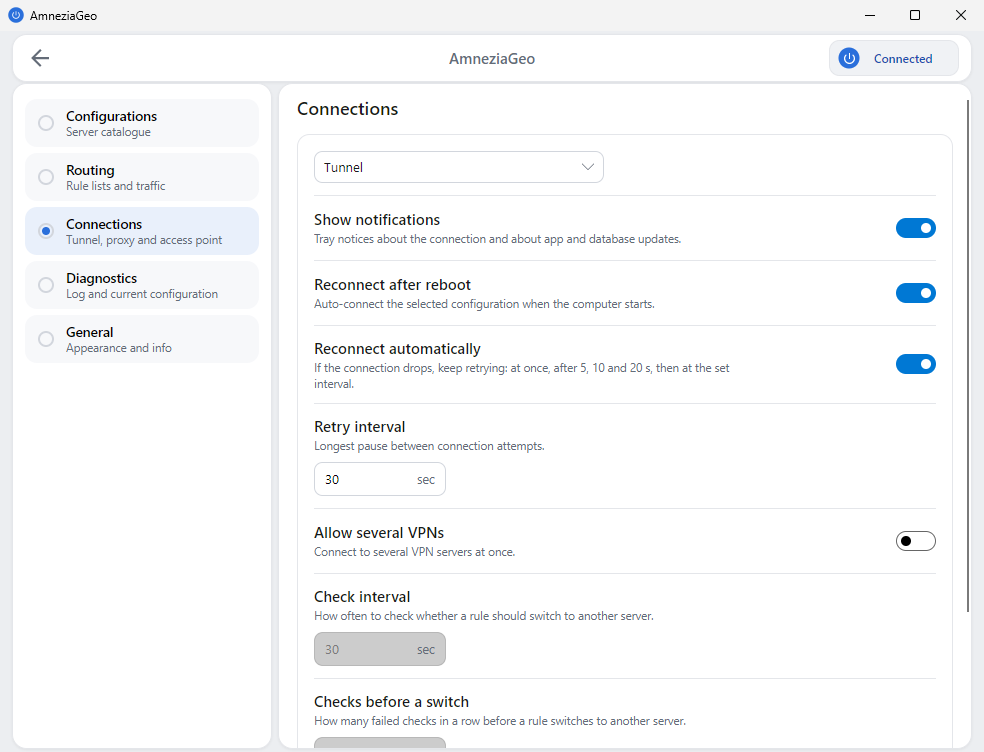
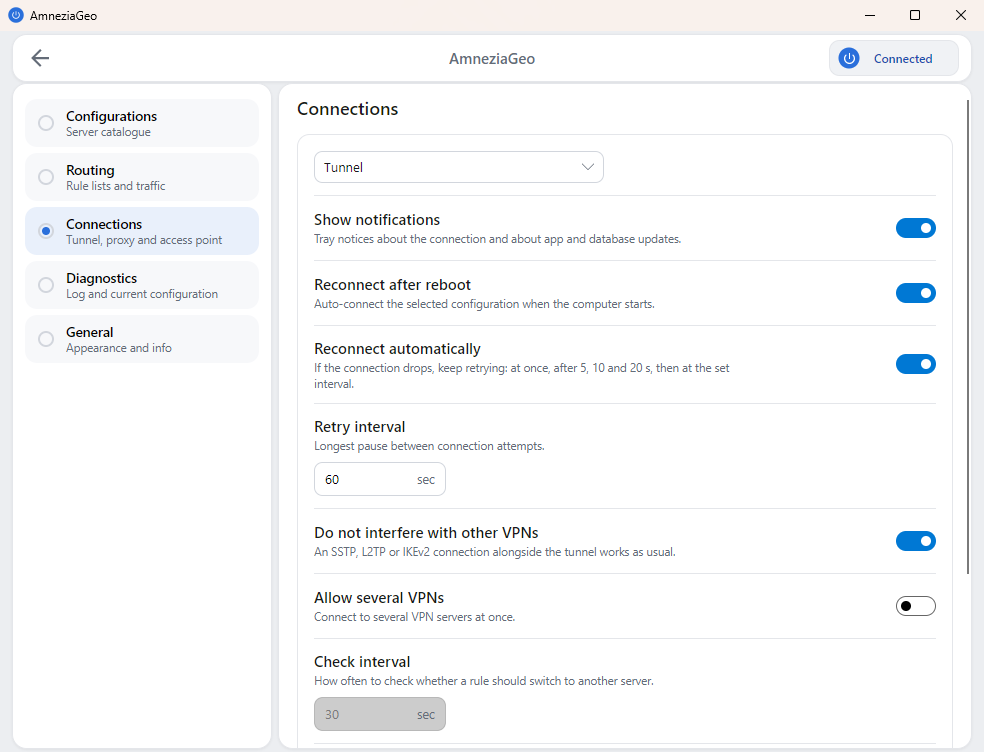
Publish documentation 28fd479

diff --git a/amneziageo_server/docker/panel/dns.ru.html b/amneziageo_server/docker/panel/dns.ru.html
@@ -380,7 +380,7 @@
   </tbody>
 </table>
 
-<p>AmneziaVPN берёт строку <code class="language-plaintext highlighter-rouge">DNS</code>, только если в ней два адреса IPv4. С одним адресом, с адресом IPv6 или без строки, а так пишут «DNS-сервер панели» и «DNS сети», он спрашивает серверы имён из своих настроек, <code class="language-plaintext highlighter-rouge">1.1.1.1</code> и <code class="language-plaintext highlighter-rouge">1.0.0.1</code>, если их не меняли: при полном туннеле через туннель, и тогда вопрос всё равно получает DNS-сервер панели, пока включён перехват запросов клиентов. Его защита от утечек, включённая сама, пускает DNS только к этим серверам.</p>
+<p>AmneziaVPN из ссылки <code class="language-plaintext highlighter-rouge">vpn://</code> берёт адреса IPv4 строки <code class="language-plaintext highlighter-rouge">DNS</code> и спрашивает их, а из файла берёт строку, только если в ней два адреса IPv4. Без адреса IPv4, то есть без строки, как пишет «DNS сети», или с одним IPv6, он спрашивает серверы имён из своих настроек, <code class="language-plaintext highlighter-rouge">1.1.1.1</code> и <code class="language-plaintext highlighter-rouge">1.0.0.1</code>, если их не меняли: при полном туннеле через туннель, и тогда вопрос всё равно получает DNS-сервер панели, пока включён перехват запросов клиентов. Его защита от утечек, включённая сама, пускает DNS только к этим серверам.</p>
 
 <p>Серверная маршрутизация по именам видит только вопросы, которые дошли до DNS-сервера: при «DNS сети» никогда, при «Своих серверах» и «DNS интерфейса» - когда серверы вне туннеля клиента.</p>
 
@@ -454,7 +454,7 @@
 
 <p>Пока DNS-сервер работает на порту 53 и отвечает на адресах интерфейсов, строка <code class="language-plaintext highlighter-rouge">DNS</code> файла клиента, которому он выбран, несёт адрес его интерфейса, и так же в ссылках подписки, см. <a href="#серверы-имён-в-файле">Серверы имён в файле</a>. DNS-сервер отвечает только через туннель, поэтому его адрес идёт и в <code class="language-plaintext highlighter-rouge">AllowedIPs</code> клиента, если диапазоны шаблона или интерфейса его не покрывают. Где панель держит порты интерфейса открытыми в брандмауэре, она пускает клиентов интерфейса и к DNS-серверу: порт DNS-сервера открывается на интерфейсе для UDP и TCP, см. <a href="interfaces.ru.html#порты-в-брандмауэре">Порты в брандмауэре</a>.</p>
 
-<p>Интерфейс, чьи порты панель не держит, остаётся хосту, и брандмауэр хоста может не пускать его клиентов к порту DNS-сервера. Таким клиентам панель не отдаёт свой адрес как сервер имён и не заворачивает их вопросы: сайты у них открываются через их серверы имён, но маршрутизация по сайтам их не касается. Панель читает ufw раз в минуту и называет такие интерфейсы: страница DNS пишет это под полем «Режим» («Маршрутизация не работает у клиентов &lt;интерфейсы&gt;: брандмауэр сервера не пускает их к DNS-серверу панели»), форма шаблона с <a href="templates.ru.html#маршрутизация-по-именам">маршрутизацией по именам</a> тоже, с командами, которые их пускают. На хосте подпункт 13 пункта 23 меню <code class="language-plaintext highlighter-rouge">Let the clients reach the resolver</code> и команда <code class="language-plaintext highlighter-rouge">amneziageo-server dns open</code> дают ufw <code class="language-plaintext highlighter-rouge">allow in on &lt;интерфейс&gt; to any port 53</code> для каждого такого интерфейса с комментарием <code class="language-plaintext highlighter-rouge">amneziageo resolver &lt;интерфейс&gt;</code>; пункт 29 и установка предлагают это сами, когда DNS-сервер отвечает. Из контейнера подпункт печатает команды для хоста. Хост без ufw никого не держит.</p>
+<p>Интерфейс, чьи порты панель не держит, остаётся хосту, и брандмауэр хоста может не пускать его клиентов к порту DNS-сервера. Правило для интерфейса со всей подсетью его клиентов, например <code class="language-plaintext highlighter-rouge">ufw allow in on awg0 from 10.8.0.0/24 to any port 53</code>, их пускает; правило с частью подсети - нет. Таким клиентам панель не отдаёт свой адрес как сервер имён и не заворачивает их вопросы: сайты у них открываются через их серверы имён, но маршрутизация по сайтам их не касается. Панель читает ufw раз в минуту и называет такие интерфейсы: страница DNS пишет это под полем «Режим» («Маршрутизация не работает у клиентов &lt;интерфейсы&gt;: брандмауэр сервера не пускает их к DNS-серверу панели»), форма шаблона с <a href="templates.ru.html#маршрутизация-по-именам">маршрутизацией по именам</a> тоже, с командами, которые их пускают. На хосте подпункт 13 пункта 23 меню <code class="language-plaintext highlighter-rouge">Let the clients reach the resolver</code> и команда <code class="language-plaintext highlighter-rouge">amneziageo-server dns open</code> дают ufw <code class="language-plaintext highlighter-rouge">allow in on &lt;интерфейс&gt; to any port 53</code> для каждого такого интерфейса с комментарием <code class="language-plaintext highlighter-rouge">amneziageo resolver &lt;интерфейс&gt;</code>; пункт 29 и установка предлагают это сами, когда DNS-сервер отвечает. Из контейнера подпункт печатает команды для хоста. Хост без ufw никого не держит.</p>
 
 <p>DNS-сервер спрашивает имена правил и сам, не дожидаясь клиента: каждое имя, по которому сравнивает правило, в том числе имена категории <code class="language-plaintext highlighter-rouge">geosite:</code>, спрашивается, и ответы ложатся в набор правила, так что правило работает с момента сохранения, даже для сервиса, адрес которого клиент уже держит в своём кэше. Имена спрашиваются пачками по шестнадцать, не чаще двух раз в секунду и не больше 256 на правило, и спрашиваются снова, когда прошла половина «TTL записи»; имя без ответа повторяется через две секунды, и ожидание удваивается до минуты. Ключевые слова и выражения категорий не спрашиваются: у них нет имени.</p>
 

diff --git a/amneziageo_server/service/panel/dns.ru.html b/amneziageo_server/service/panel/dns.ru.html
@@ -380,7 +380,7 @@
   </tbody>
 </table>
 
-<p>AmneziaVPN берёт строку <code class="language-plaintext highlighter-rouge">DNS</code>, только если в ней два адреса IPv4. С одним адресом, с адресом IPv6 или без строки, а так пишут «DNS-сервер панели» и «DNS сети», он спрашивает серверы имён из своих настроек, <code class="language-plaintext highlighter-rouge">1.1.1.1</code> и <code class="language-plaintext highlighter-rouge">1.0.0.1</code>, если их не меняли: при полном туннеле через туннель, и тогда вопрос всё равно получает DNS-сервер панели, пока включён перехват запросов клиентов. Его защита от утечек, включённая сама, пускает DNS только к этим серверам.</p>
+<p>AmneziaVPN из ссылки <code class="language-plaintext highlighter-rouge">vpn://</code> берёт адреса IPv4 строки <code class="language-plaintext highlighter-rouge">DNS</code> и спрашивает их, а из файла берёт строку, только если в ней два адреса IPv4. Без адреса IPv4, то есть без строки, как пишет «DNS сети», или с одним IPv6, он спрашивает серверы имён из своих настроек, <code class="language-plaintext highlighter-rouge">1.1.1.1</code> и <code class="language-plaintext highlighter-rouge">1.0.0.1</code>, если их не меняли: при полном туннеле через туннель, и тогда вопрос всё равно получает DNS-сервер панели, пока включён перехват запросов клиентов. Его защита от утечек, включённая сама, пускает DNS только к этим серверам.</p>
 
 <p>Серверная маршрутизация по именам видит только вопросы, которые дошли до DNS-сервера: при «DNS сети» никогда, при «Своих серверах» и «DNS интерфейса» - когда серверы вне туннеля клиента.</p>
 
@@ -454,7 +454,7 @@
 
 <p>Пока DNS-сервер работает на порту 53 и отвечает на адресах интерфейсов, строка <code class="language-plaintext highlighter-rouge">DNS</code> файла клиента, которому он выбран, несёт адрес его интерфейса, и так же в ссылках подписки, см. <a href="#серверы-имён-в-файле">Серверы имён в файле</a>. DNS-сервер отвечает только через туннель, поэтому его адрес идёт и в <code class="language-plaintext highlighter-rouge">AllowedIPs</code> клиента, если диапазоны шаблона или интерфейса его не покрывают. Где панель держит порты интерфейса открытыми в брандмауэре, она пускает клиентов интерфейса и к DNS-серверу: порт DNS-сервера открывается на интерфейсе для UDP и TCP, см. <a href="interfaces.ru.html#порты-в-брандмауэре">Порты в брандмауэре</a>.</p>
 
-<p>Интерфейс, чьи порты панель не держит, остаётся хосту, и брандмауэр хоста может не пускать его клиентов к порту DNS-сервера. Таким клиентам панель не отдаёт свой адрес как сервер имён и не заворачивает их вопросы: сайты у них открываются через их серверы имён, но маршрутизация по сайтам их не касается. Панель читает ufw раз в минуту и называет такие интерфейсы: страница DNS пишет это под полем «Режим» («Маршрутизация не работает у клиентов &lt;интерфейсы&gt;: брандмауэр сервера не пускает их к DNS-серверу панели»), форма шаблона с <a href="templates.ru.html#маршрутизация-по-именам">маршрутизацией по именам</a> тоже, с командами, которые их пускают. На хосте подпункт 13 пункта 23 меню <code class="language-plaintext highlighter-rouge">Let the clients reach the resolver</code> и команда <code class="language-plaintext highlighter-rouge">amneziageo-server dns open</code> дают ufw <code class="language-plaintext highlighter-rouge">allow in on &lt;интерфейс&gt; to any port 53</code> для каждого такого интерфейса с комментарием <code class="language-plaintext highlighter-rouge">amneziageo resolver &lt;интерфейс&gt;</code>; пункт 29 и установка предлагают это сами, когда DNS-сервер отвечает. Хост без ufw никого не держит.</p>
+<p>Интерфейс, чьи порты панель не держит, остаётся хосту, и брандмауэр хоста может не пускать его клиентов к порту DNS-сервера. Правило для интерфейса со всей подсетью его клиентов, например <code class="language-plaintext highlighter-rouge">ufw allow in on awg0 from 10.8.0.0/24 to any port 53</code>, их пускает; правило с частью подсети - нет. Таким клиентам панель не отдаёт свой адрес как сервер имён и не заворачивает их вопросы: сайты у них открываются через их серверы имён, но маршрутизация по сайтам их не касается. Панель читает ufw раз в минуту и называет такие интерфейсы: страница DNS пишет это под полем «Режим» («Маршрутизация не работает у клиентов &lt;интерфейсы&gt;: брандмауэр сервера не пускает их к DNS-серверу панели»), форма шаблона с <a href="templates.ru.html#маршрутизация-по-именам">маршрутизацией по именам</a> тоже, с командами, которые их пускают. На хосте подпункт 13 пункта 23 меню <code class="language-plaintext highlighter-rouge">Let the clients reach the resolver</code> и команда <code class="language-plaintext highlighter-rouge">amneziageo-server dns open</code> дают ufw <code class="language-plaintext highlighter-rouge">allow in on &lt;интерфейс&gt; to any port 53</code> для каждого такого интерфейса с комментарием <code class="language-plaintext highlighter-rouge">amneziageo resolver &lt;интерфейс&gt;</code>; пункт 29 и установка предлагают это сами, когда DNS-сервер отвечает. Хост без ufw никого не держит.</p>
 
 <p>DNS-сервер спрашивает имена правил и сам, не дожидаясь клиента: каждое имя, по которому сравнивает правило, в том числе имена категории <code class="language-plaintext highlighter-rouge">geosite:</code>, спрашивается, и ответы ложатся в набор правила, так что правило работает с момента сохранения, даже для сервиса, адрес которого клиент уже держит в своём кэше. Имена спрашиваются пачками по шестнадцать, не чаще двух раз в секунду и не больше 256 на правило, и спрашиваются снова, когда прошла половина «TTL записи»; имя без ответа повторяется через две секунды, и ожидание удваивается до минуты. Ключевые слова и выражения категорий не спрашиваются: у них нет имени.</p>
 

diff --git a/amneziageo_server/docker/panel/dns.html b/amneziageo_server/docker/panel/dns.html
@@ -389,7 +389,7 @@
   </tbody>
 </table>
 
-<p>AmneziaVPN takes the <code class="language-plaintext highlighter-rouge">DNS</code> line only when it holds two IPv4 addresses. With one address, an IPv6 one or no line, which is what “Panel DNS server” and “Network DNS” write, it asks the name servers of its own settings, <code class="language-plaintext highlighter-rouge">1.1.1.1</code> and <code class="language-plaintext highlighter-rouge">1.0.0.1</code> unless changed: in a full tunnel through the tunnel, and then the question reaches the DNS server of the panel anyway while the interception of client queries is on. Its leak guard, on by itself, lets DNS reach those servers only.</p>
+<p>AmneziaVPN takes the IPv4 addresses of the <code class="language-plaintext highlighter-rouge">DNS</code> line from the <code class="language-plaintext highlighter-rouge">vpn://</code> link and asks them, while from the file it takes the line only when it holds two IPv4 addresses. Without an IPv4 address, that is with no line, which is what “Network DNS” writes, or with an IPv6 one alone, it asks the name servers of its own settings, <code class="language-plaintext highlighter-rouge">1.1.1.1</code> and <code class="language-plaintext highlighter-rouge">1.0.0.1</code> unless changed: in a full tunnel through the tunnel, and then the question reaches the DNS server of the panel anyway while the interception of client queries is on. Its leak guard, on by itself, lets DNS reach those servers only.</p>
 
 <p>Routing by name on the server sees only the questions that reach the DNS server: with “Network DNS” never, with “Own servers” and “Interface DNS” when the servers lie outside the tunnel of the client.</p>
 
@@ -463,7 +463,7 @@
 
 <p>While the DNS server runs on port 53 and answers at the addresses of the interfaces, the <code class="language-plaintext highlighter-rouge">DNS</code> line of the file of a client it is picked for carries the address of its interface, and so do the subscription links, see <a href="#name-servers-in-the-file">Name servers in the file</a>. The DNS server answers only through the tunnel, so its address also goes into <code class="language-plaintext highlighter-rouge">AllowedIPs</code> of the client when the ranges of the template or the interface leave it out. Where the panel keeps the ports of an interface open in the firewall, it lets the clients of the interface to the DNS server too: the port of the DNS server is opened on the interface for UDP and TCP, see <a href="interfaces.html#ports-in-the-firewall">Ports in the firewall</a>.</p>
 
-<p>An interface whose ports the panel does not hold is left to the host, and the firewall of the host may keep its clients from the port of the DNS server. The panel then hands those clients no name server of its own and does not turn their questions to itself: the sites open for them through their own name servers, but routing by sites misses them. The panel reads ufw once a minute and names such interfaces: the DNS page writes this under the “Mode” field (“Routing does not work for the clients of &lt;interfaces&gt;: the server firewall keeps them from the DNS server of the panel”), and so does the form of a template with <a href="templates.html#route-by-name">Route by name</a>, with the commands that let them in. On the host, sub-item 13 of menu item 23 <code class="language-plaintext highlighter-rouge">Let the clients reach the resolver</code> and the command <code class="language-plaintext highlighter-rouge">amneziageo-server dns open</code> give ufw <code class="language-plaintext highlighter-rouge">allow in on &lt;interface&gt; to any port 53</code> for each such interface, with the comment <code class="language-plaintext highlighter-rouge">amneziageo resolver &lt;interface&gt;</code>; item 29 and the installation offer this themselves once the DNS server answers. From the container the sub-item prints the commands for the host. A host without ufw keeps nobody out.</p>
+<p>An interface whose ports the panel does not hold is left to the host, and the firewall of the host may keep its clients from the port of the DNS server. A rule for the interface from the whole subnet of its clients, such as <code class="language-plaintext highlighter-rouge">ufw allow in on awg0 from 10.8.0.0/24 to any port 53</code>, lets them in; a rule from a part of the subnet does not. The panel then hands those clients no name server of its own and does not turn their questions to itself: the sites open for them through their own name servers, but routing by sites misses them. The panel reads ufw once a minute and names such interfaces: the DNS page writes this under the “Mode” field (“Routing does not work for the clients of &lt;interfaces&gt;: the server firewall keeps them from the DNS server of the panel”), and so does the form of a template with <a href="templates.html#route-by-name">Route by name</a>, with the commands that let them in. On the host, sub-item 13 of menu item 23 <code class="language-plaintext highlighter-rouge">Let the clients reach the resolver</code> and the command <code class="language-plaintext highlighter-rouge">amneziageo-server dns open</code> give ufw <code class="language-plaintext highlighter-rouge">allow in on &lt;interface&gt; to any port 53</code> for each such interface, with the comment <code class="language-plaintext highlighter-rouge">amneziageo resolver &lt;interface&gt;</code>; item 29 and the installation offer this themselves once the DNS server answers. From the container the sub-item prints the commands for the host. A host without ufw keeps nobody out.</p>
 
 <p>The DNS server also asks the names of the rules itself, without waiting for a client: every name a rule compares by, the names of a <code class="language-plaintext highlighter-rouge">geosite:</code> category included, is asked, and the answers go into the set of the rule, so the rule works from the moment it is saved, even for a service whose address the client already holds in its cache. The names are asked in batches of sixteen, no more often than twice a second and no more than 256 per rule, and are asked again when half of the “Record TTL” has passed; a name without an answer is repeated after two seconds, and the wait doubles up to a minute. Keywords and expressions of categories are not asked: they have no name.</p>
 

diff --git a/amneziageo_server/service/panel/dns.html b/amneziageo_server/service/panel/dns.html
@@ -389,7 +389,7 @@
   </tbody>
 </table>
 
-<p>AmneziaVPN takes the <code class="language-plaintext highlighter-rouge">DNS</code> line only when it holds two IPv4 addresses. With one address, an IPv6 one or no line, which is what “Panel DNS server” and “Network DNS” write, it asks the name servers of its own settings, <code class="language-plaintext highlighter-rouge">1.1.1.1</code> and <code class="language-plaintext highlighter-rouge">1.0.0.1</code> unless changed: in a full tunnel through the tunnel, and then the question reaches the DNS server of the panel anyway while the interception of client queries is on. Its leak guard, on by itself, lets DNS reach those servers only.</p>
+<p>AmneziaVPN takes the IPv4 addresses of the <code class="language-plaintext highlighter-rouge">DNS</code> line from the <code class="language-plaintext highlighter-rouge">vpn://</code> link and asks them, while from the file it takes the line only when it holds two IPv4 addresses. Without an IPv4 address, that is with no line, which is what “Network DNS” writes, or with an IPv6 one alone, it asks the name servers of its own settings, <code class="language-plaintext highlighter-rouge">1.1.1.1</code> and <code class="language-plaintext highlighter-rouge">1.0.0.1</code> unless changed: in a full tunnel through the tunnel, and then the question reaches the DNS server of the panel anyway while the interception of client queries is on. Its leak guard, on by itself, lets DNS reach those servers only.</p>
 
 <p>Routing by name on the server sees only the questions that reach the DNS server: with “Network DNS” never, with “Own servers” and “Interface DNS” when the servers lie outside the tunnel of the client.</p>
 
@@ -463,7 +463,7 @@
 
 <p>While the DNS server runs on port 53 and answers at the addresses of the interfaces, the <code class="language-plaintext highlighter-rouge">DNS</code> line of the file of a client it is picked for carries the address of its interface, and so do the subscription links, see <a href="#name-servers-in-the-file">Name servers in the file</a>. The DNS server answers only through the tunnel, so its address also goes into <code class="language-plaintext highlighter-rouge">AllowedIPs</code> of the client when the ranges of the template or the interface leave it out. Where the panel keeps the ports of an interface open in the firewall, it lets the clients of the interface to the DNS server too: the port of the DNS server is opened on the interface for UDP and TCP, see <a href="interfaces.html#ports-in-the-firewall">Ports in the firewall</a>.</p>
 
-<p>An interface whose ports the panel does not hold is left to the host, and the firewall of the host may keep its clients from the port of the DNS server. The panel then hands those clients no name server of its own and does not turn their questions to itself: the sites open for them through their own name servers, but routing by sites misses them. The panel reads ufw once a minute and names such interfaces: the DNS page writes this under the “Mode” field (“Routing does not work for the clients of &lt;interfaces&gt;: the server firewall keeps them from the DNS server of the panel”), and so does the form of a template with <a href="templates.html#route-by-name">Route by name</a>, with the commands that let them in. On the host, sub-item 13 of menu item 23 <code class="language-plaintext highlighter-rouge">Let the clients reach the resolver</code> and the command <code class="language-plaintext highlighter-rouge">amneziageo-server dns open</code> give ufw <code class="language-plaintext highlighter-rouge">allow in on &lt;interface&gt; to any port 53</code> for each such interface, with the comment <code class="language-plaintext highlighter-rouge">amneziageo resolver &lt;interface&gt;</code>; item 29 and the installation offer this themselves once the DNS server answers. A host without ufw keeps nobody out.</p>
+<p>An interface whose ports the panel does not hold is left to the host, and the firewall of the host may keep its clients from the port of the DNS server. A rule for the interface from the whole subnet of its clients, such as <code class="language-plaintext highlighter-rouge">ufw allow in on awg0 from 10.8.0.0/24 to any port 53</code>, lets them in; a rule from a part of the subnet does not. The panel then hands those clients no name server of its own and does not turn their questions to itself: the sites open for them through their own name servers, but routing by sites misses them. The panel reads ufw once a minute and names such interfaces: the DNS page writes this under the “Mode” field (“Routing does not work for the clients of &lt;interfaces&gt;: the server firewall keeps them from the DNS server of the panel”), and so does the form of a template with <a href="templates.html#route-by-name">Route by name</a>, with the commands that let them in. On the host, sub-item 13 of menu item 23 <code class="language-plaintext highlighter-rouge">Let the clients reach the resolver</code> and the command <code class="language-plaintext highlighter-rouge">amneziageo-server dns open</code> give ufw <code class="language-plaintext highlighter-rouge">allow in on &lt;interface&gt; to any port 53</code> for each such interface, with the comment <code class="language-plaintext highlighter-rouge">amneziageo resolver &lt;interface&gt;</code>; item 29 and the installation offer this themselves once the DNS server answers. A host without ufw keeps nobody out.</p>
 
 <p>The DNS server also asks the names of the rules itself, without waiting for a client: every name a rule compares by, the names of a <code class="language-plaintext highlighter-rouge">geosite:</code> category included, is asked, and the answers go into the set of the rule, so the rule works from the moment it is saved, even for a service whose address the client already holds in its cache. The names are asked in batches of sixteen, no more often than twice a second and no more than 256 per rule, and are asked again when half of the “Record TTL” has passed; a name without an answer is repeated after two seconds, and the wait doubles up to a minute. Keywords and expressions of categories are not asked: they have no name.</p>
 

diff --git a/amneziageo_server/service/menu.ru.html b/amneziageo_server/service/menu.ru.html
@@ -412,7 +412,7 @@
 
 <h2 id="интерфейсы-фронты-bbr">Интерфейсы, фронты, BBR</h2>
 
-<p><strong>25 <code class="language-plaintext highlighter-rouge">Endpoints &amp; Interfaces</code>.</strong> Подменю: интерфейсы панели с портами и тем, кто держит порт открытым (<code class="language-plaintext highlighter-rouge">endpoint list</code>); открыть или закрыть порты интерфейса; интерфейсы в ядре (<code class="language-plaintext highlighter-rouge">device list</code>); интерфейс с его пирами (<code class="language-plaintext highlighter-rouge">device show</code>); импорт интерфейса из файла <code class="language-plaintext highlighter-rouge">awg-quick</code> с адресом для клиентов; импорт пиров интерфейса; импорт клиентов из файла хоста; сделать интерфейс интерфейсом по умолчанию (<code class="language-plaintext highlighter-rouge">endpoint default</code>), на него встаёт новый клиент. Перенос описан в <a href="panel/interfaces.ru.html#перенос-с-awg-quick">Интерфейсы</a>.</p>
+<p><strong>25 <code class="language-plaintext highlighter-rouge">Endpoints &amp; Interfaces</code>.</strong> Подменю: интерфейсы панели с портами, адресами и тем, кто держит порт открытым (<code class="language-plaintext highlighter-rouge">endpoint list</code>); открыть или закрыть порты интерфейса; интерфейсы в ядре (<code class="language-plaintext highlighter-rouge">device list</code>); интерфейс с его пирами (<code class="language-plaintext highlighter-rouge">device show</code>); импорт интерфейса из файла <code class="language-plaintext highlighter-rouge">awg-quick</code> с адресом для клиентов; импорт пиров интерфейса; импорт клиентов из файла хоста; сделать интерфейс интерфейсом по умолчанию (<code class="language-plaintext highlighter-rouge">endpoint default</code>), на него встаёт новый клиент. Перенос описан в <a href="panel/interfaces.ru.html#перенос-с-awg-quick">Интерфейсы</a>.</p>
 
 <p><strong>26 <code class="language-plaintext highlighter-rouge">Websocket Fronts</code>.</strong> Интерфейсы и порты их WebSocket со службами <code class="language-plaintext highlighter-rouge">amneziageo-proxy@&lt;интерфейс&gt;</code>, перезапуск фронтов, их журналы.</p>
 

diff --git a/amneziageo/windows/menu/connections.ru.html b/amneziageo/windows/menu/connections.ru.html
@@ -185,6 +185,7 @@
   <li>«Показывать оповещения» - сообщения в трее о подключении, обновлениях приложения и баз.</li>
   <li>«Восстанавливать после перезагрузки» - подключать выбранную конфигурацию при включении компьютера; в консоли это <code class="language-plaintext highlighter-rouge">survive-reboot</code>.</li>
   <li>«Переподключаться автоматически» и «Интервал повтора» - после обрыва повторять попытки: сразу, через 5, 10 и 20 с, дальше через интервал; интервал - наибольшая пауза между попытками. Как идёт повтор - в разделе <a href="home.ru.html#переподключение">Переподключение</a>.</li>
+  <li>«Не мешать другим VPN» - подключение SSTP, L2TP, PPTP или IKEv2 встроенного клиента Windows (а по описанию адаптера - Cisco, Fortinet, OpenVPN, GlobalProtect) рядом с туннелем работает как обычно: его адаптер пропускается защитой от утечек, сети, которые ведёт оно, остаются за ним, адрес сервера из подключения Windows идёт мимо туннеля, а имена с суффиксом подключения спрашиваются у его DNS. Выключите, если защита от утечек должна резать всё, кроме туннеля. Действует со следующего подключения; в консоли это <code class="language-plaintext highlighter-rouge">other-vpn</code>.</li>
   <li>«Разрешить несколько VPN» включает режим из рецепта <a href="../recipes/multiple-vpn.ru.html">Несколько VPN одновременно</a>. Под ним настройки перехода правил между серверами: «Интервал проверки» - как часто проверять, не стоит ли перевести правило на другой сервер, «Проверок перед переключением» - после скольких проверок без ответа подряд правило переходит на другой сервер, «Порог переключения» - насколько быстрее должен отвечать другой сервер, чтобы правило перешло на него.</li>
 </ul>
 

diff --git a/amneziageo_server/docker/menu.ru.html b/amneziageo_server/docker/menu.ru.html
@@ -414,7 +414,7 @@
 
 <h2 id="интерфейсы-фронты-bbr">Интерфейсы, фронты, BBR</h2>
 
-<p><strong>25 <code class="language-plaintext highlighter-rouge">Endpoints &amp; Interfaces</code>.</strong> Подменю: интерфейсы панели с портами и тем, кто держит порт открытым (<code class="language-plaintext highlighter-rouge">endpoint list</code>); открыть или закрыть порты интерфейса; интерфейсы в ядре (<code class="language-plaintext highlighter-rouge">device list</code>); интерфейс с его пирами (<code class="language-plaintext highlighter-rouge">device show</code>); импорт интерфейса из файла <code class="language-plaintext highlighter-rouge">awg-quick</code> с адресом для клиентов; импорт пиров интерфейса; импорт клиентов из файла хоста; сделать интерфейс интерфейсом по умолчанию (<code class="language-plaintext highlighter-rouge">endpoint default</code>), на него встаёт новый клиент. Перенос описан в <a href="panel/interfaces.ru.html#перенос-с-awg-quick">Интерфейсы</a>.</p>
+<p><strong>25 <code class="language-plaintext highlighter-rouge">Endpoints &amp; Interfaces</code>.</strong> Подменю: интерфейсы панели с портами, адресами и тем, кто держит порт открытым (<code class="language-plaintext highlighter-rouge">endpoint list</code>); открыть или закрыть порты интерфейса; интерфейсы в ядре (<code class="language-plaintext highlighter-rouge">device list</code>); интерфейс с его пирами (<code class="language-plaintext highlighter-rouge">device show</code>); импорт интерфейса из файла <code class="language-plaintext highlighter-rouge">awg-quick</code> с адресом для клиентов; импорт пиров интерфейса; импорт клиентов из файла хоста; сделать интерфейс интерфейсом по умолчанию (<code class="language-plaintext highlighter-rouge">endpoint default</code>), на него встаёт новый клиент. Перенос описан в <a href="panel/interfaces.ru.html#перенос-с-awg-quick">Интерфейсы</a>.</p>
 
 <p><strong>26 <code class="language-plaintext highlighter-rouge">Websocket Fronts</code>.</strong> Интерфейсы и порты их WebSocket, перезапуск фронтов, их журналы.</p>
 

diff --git a/amneziageo_server/service/menu.html b/amneziageo_server/service/menu.html
@@ -421,7 +421,7 @@
 
 <h2 id="interfaces-fronts-bbr">Interfaces, fronts, BBR</h2>
 
-<p><strong>25 <code class="language-plaintext highlighter-rouge">Endpoints &amp; Interfaces</code>.</strong> A submenu: the interfaces of the panel with their ports and who keeps each port open (<code class="language-plaintext highlighter-rouge">endpoint list</code>); open or close the ports of an interface; interfaces in the kernel (<code class="language-plaintext highlighter-rouge">device list</code>); an interface with its peers (<code class="language-plaintext highlighter-rouge">device show</code>); import an interface from an <code class="language-plaintext highlighter-rouge">awg-quick</code> file with an address for the clients; import the peers of an interface; import clients from a file of the host; make an interface the default one (<code class="language-plaintext highlighter-rouge">endpoint default</code>), the one a new client goes on. Moving over is described in <a href="panel/interfaces.html#moving-from-awg-quick">Interfaces</a>.</p>
+<p><strong>25 <code class="language-plaintext highlighter-rouge">Endpoints &amp; Interfaces</code>.</strong> A submenu: the interfaces of the panel with their ports, addresses and who keeps each port open (<code class="language-plaintext highlighter-rouge">endpoint list</code>); open or close the ports of an interface; interfaces in the kernel (<code class="language-plaintext highlighter-rouge">device list</code>); an interface with its peers (<code class="language-plaintext highlighter-rouge">device show</code>); import an interface from an <code class="language-plaintext highlighter-rouge">awg-quick</code> file with an address for the clients; import the peers of an interface; import clients from a file of the host; make an interface the default one (<code class="language-plaintext highlighter-rouge">endpoint default</code>), the one a new client goes on. Moving over is described in <a href="panel/interfaces.html#moving-from-awg-quick">Interfaces</a>.</p>
 
 <p><strong>26 <code class="language-plaintext highlighter-rouge">Websocket Fronts</code>.</strong> Interfaces and the ports of their WebSocket with the <code class="language-plaintext highlighter-rouge">amneziageo-proxy@&lt;interface&gt;</code> services, restarting the fronts, their logs.</p>
 

diff --git a/amneziageo_server/docker/menu.html b/amneziageo_server/docker/menu.html
@@ -423,7 +423,7 @@
 
 <h2 id="interfaces-fronts-bbr">Interfaces, fronts, BBR</h2>
 
-<p><strong>25 <code class="language-plaintext highlighter-rouge">Endpoints &amp; Interfaces</code>.</strong> A submenu: the interfaces of the panel with their ports and who keeps each port open (<code class="language-plaintext highlighter-rouge">endpoint list</code>); open or close the ports of an interface; interfaces in the kernel (<code class="language-plaintext highlighter-rouge">device list</code>); an interface with its peers (<code class="language-plaintext highlighter-rouge">device show</code>); import an interface from an <code class="language-plaintext highlighter-rouge">awg-quick</code> file with an address for the clients; import the peers of an interface; import clients from a file of the host; make an interface the default one (<code class="language-plaintext highlighter-rouge">endpoint default</code>), the one a new client goes on. Moving over is described in <a href="panel/interfaces.html#moving-from-awg-quick">Interfaces</a>.</p>
+<p><strong>25 <code class="language-plaintext highlighter-rouge">Endpoints &amp; Interfaces</code>.</strong> A submenu: the interfaces of the panel with their ports, addresses and who keeps each port open (<code class="language-plaintext highlighter-rouge">endpoint list</code>); open or close the ports of an interface; interfaces in the kernel (<code class="language-plaintext highlighter-rouge">device list</code>); an interface with its peers (<code class="language-plaintext highlighter-rouge">device show</code>); import an interface from an <code class="language-plaintext highlighter-rouge">awg-quick</code> file with an address for the clients; import the peers of an interface; import clients from a file of the host; make an interface the default one (<code class="language-plaintext highlighter-rouge">endpoint default</code>), the one a new client goes on. Moving over is described in <a href="panel/interfaces.html#moving-from-awg-quick">Interfaces</a>.</p>
 
 <p><strong>26 <code class="language-plaintext highlighter-rouge">Websocket Fronts</code>.</strong> Interfaces and the ports of their WebSocket, restarting the fronts, their logs.</p>
 

diff --git a/amneziageo/windows/menu/connections.html b/amneziageo/windows/menu/connections.html
@@ -194,6 +194,7 @@
   <li>“Show notifications” - tray messages about connecting and about updates of the application and of the databases.</li>
   <li>“Reconnect after reboot” - connect the selected configuration when the computer starts; in the console it is <code class="language-plaintext highlighter-rouge">survive-reboot</code>.</li>
   <li>“Reconnect automatically” and “Retry interval” - keep trying after a drop: at once, in 5, 10 and 20 s, then every interval; the interval is the longest pause between attempts. How a connect is retried: <a href="home.html#reconnecting">Reconnecting</a>.</li>
+  <li>“Do not interfere with other VPNs” - an SSTP, L2TP, PPTP or IKEv2 connection of the built-in Windows client (and, by the adapter description, Cisco, Fortinet, OpenVPN, GlobalProtect) works alongside the tunnel as usual: the leak protection lets its adapter through, the networks it leads stay with it, the address of the server of a Windows connection goes past the tunnel, and the names under the connection’s suffix are asked from its DNS. Turn it off when the leak protection must cut everything but the tunnel. It takes effect at the next connect; in the console it is <code class="language-plaintext highlighter-rouge">other-vpn</code>.</li>
   <li>“Allow several VPNs” turns on the mode of the <a href="../recipes/multiple-vpn.html">Multiple VPN connections</a> recipe. Under it stand the settings of how rules move between servers: “Check interval” - how often to check whether a rule should move to another server, “Checks before a switch” - after how many checks in a row without an answer the rule moves to another server, “Switch threshold” - how much faster the other server has to answer for the rule to move to it.</li>
 </ul>
 

diff --git a/amneziageo_server/docker/cli.ru.html b/amneziageo_server/docker/cli.ru.html
@@ -315,7 +315,7 @@
   <tbody>
     <tr>
       <td><code class="language-plaintext highlighter-rouge">endpoint list</code></td>
-      <td>интерфейсы с портом и тем, кто держит порт открытым: панель или хост</td>
+      <td>интерфейсы с портом, адресами и тем, кто держит порт открытым: панель или хост</td>
     </tr>
     <tr>
       <td><code class="language-plaintext highlighter-rouge">endpoint open &lt;имя&gt;</code>, <code class="language-plaintext highlighter-rouge">endpoint close &lt;имя&gt;</code></td>

diff --git a/amneziageo_server/service/cli.ru.html b/amneziageo_server/service/cli.ru.html
@@ -315,7 +315,7 @@
   <tbody>
     <tr>
       <td><code class="language-plaintext highlighter-rouge">endpoint list</code></td>
-      <td>интерфейсы с портом и тем, кто держит порт открытым: панель или хост</td>
+      <td>интерфейсы с портом, адресами и тем, кто держит порт открытым: панель или хост</td>
     </tr>
     <tr>
       <td><code class="language-plaintext highlighter-rouge">endpoint open &lt;имя&gt;</code>, <code class="language-plaintext highlighter-rouge">endpoint close &lt;имя&gt;</code></td>
